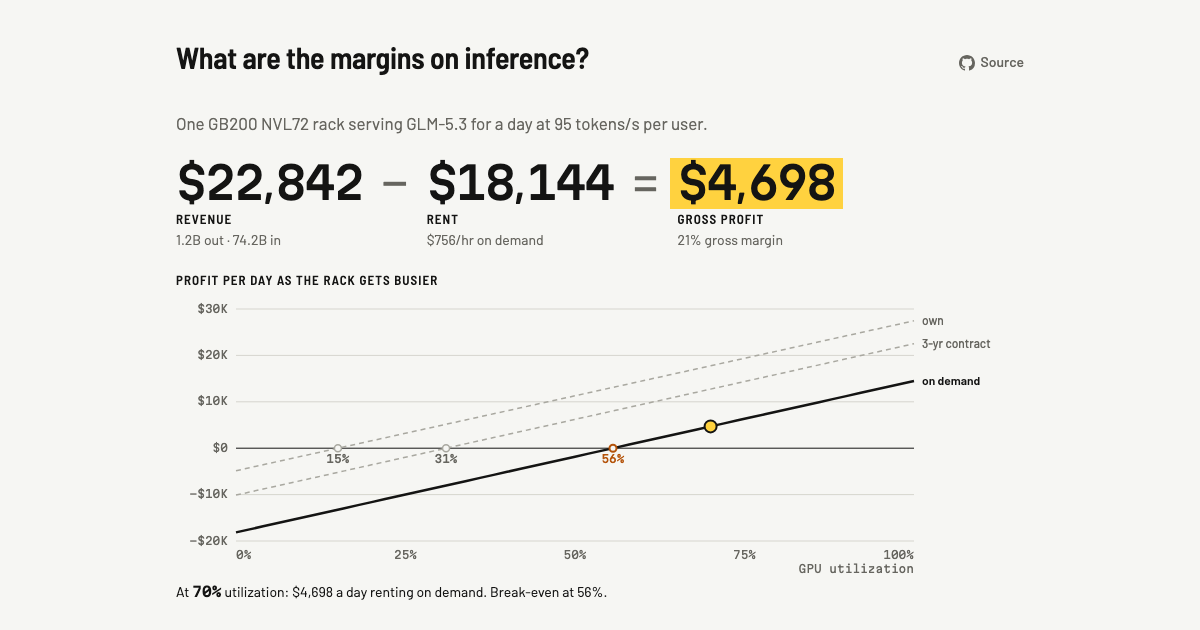
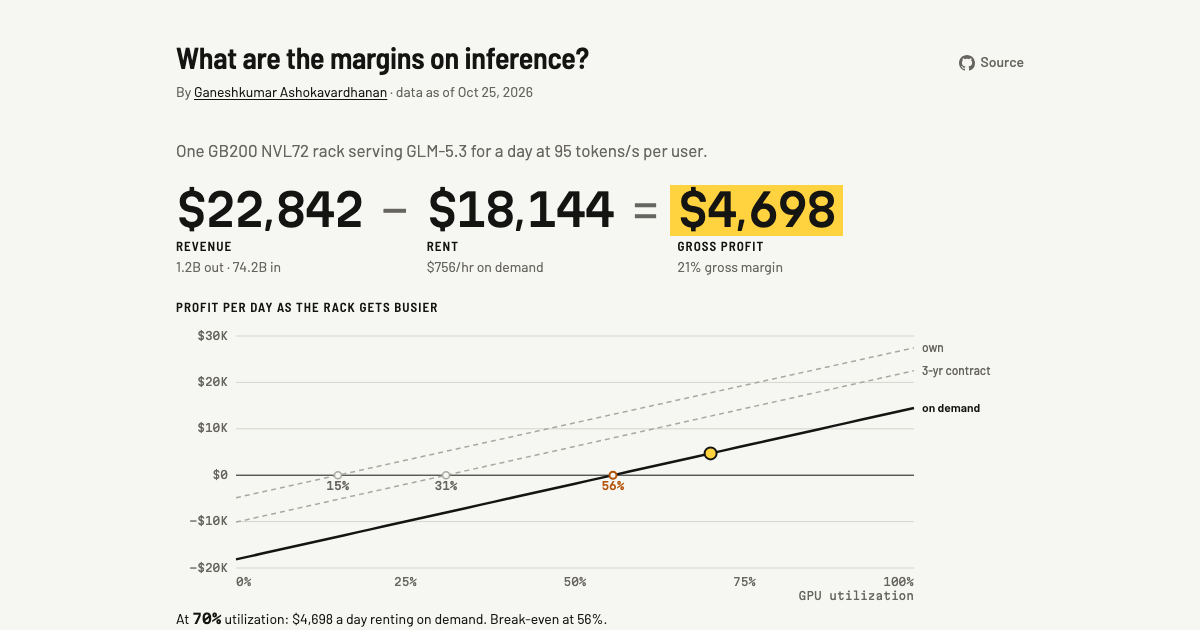
Review fixes: byline, crawlable metadata, exact receipt lines, small bugs
- A byline under the title names the author and links to
  ganeshkumarashok.com; an author meta tag, a canonical URL, robots.txt
  and a sitemap are added.
- Receipt revenue lines show token counts to five significant digits, so
  each line multiplies out to the dollars shown, with a note that totals
  use unrounded values.
- The chart's text description leads with the selected option instead of
  always starting with on-demand rent.
- The receipt's unit header, source dates and the footer link no longer
  wrap mid-token; a focused slider no longer draws a box around its track
  (the thumb still shows keyboard focus).

diff --git a/apps/web/e2e/site.spec.ts b/apps/web/e2e/site.spec.ts
@@ -18,7 +18,12 @@ test('1. defaults answer the four questions: rent, tokens, revenue, profit', asy
   await expect(page.getByTestId('margin')).toHaveText('21% gross margin');
   await expect(page.getByTestId('equation')).toContainText('1.2B out · 74.2B in');
   await expect(page.getByTestId('chart-readout')).toHaveText('At 70% utilization: $4,698 a day renting on demand. Break-even at 56%.');
-  await expect(page.getByTestId('profit-chart').getByRole('img')).toHaveAttribute('aria-label', /renting on demand breaks even at 56%; renting on a 3-yr contract breaks even at 31%; owning breaks even at 15%/);
+  await expect(page.getByTestId('profit-chart').getByRole('img')).toHaveAttribute('aria-label', /^Profit per day against GPU utilization\. renting on demand, the selected option, breaks even at 56% and makes \$4,698 a day at 70% utilization\. For comparison, renting on a 3-yr contract breaks even at 31%; owning breaks even at 15%\.$/);
+  await expect(page.locator('.byline')).toContainText('Ganeshkumar Ashokavardhanan');
+  await expect(page.locator('.byline a')).toHaveAttribute('href', 'https://ganeshkumarashok.com');
+  // Each revenue line multiplies out from what it shows.
+  await expect(page.getByTestId('receipt')).toContainText('1.1778B × $4.40/M');
+  await expect(page.getByTestId('receipt')).toContainText('$5,182');
   await expect(page.getByTestId('disclaimer')).toContainText('Not financial, investment, tax, or purchasing advice');
   await expect(page.getByTestId('disclaimer').getByRole('link')).toHaveAttribute('href', 'https://github.com/ganeshkumarashok/token-margin');
   await expect(page.getByTestId('repo-link')).toHaveAttribute('href', 'https://github.com/ganeshkumarashok/token-margin');
@@ -63,6 +68,7 @@ test('5. owning swaps rent for the cost of owning and a rack-price slider', asyn
   await expect(page.getByTestId('equation')).toContainText('$210/hr all-in, owned');
   await expect(page.getByTestId('s-rent')).toHaveCount(0);
   await expect(page.getByTestId('chart-readout')).toContainText('a day owning');
+  await expect(page.getByTestId('profit-chart').getByRole('img')).toHaveAttribute('aria-label', /owning, the selected option, breaks even at 15%/);
   await expect(page.getByTestId('s-power')).toContainText('14.5¢/kWh · $355/day');
   await expect(page.getByTestId('s-ops')).toContainText('$400/day');
   await page.goto('/?t=own&e=0.25');
@@ -164,4 +170,11 @@ test('14. a shared link with settings renders its own numbers over the pre-rende
   await expect(page.getByTestId('profit')).toHaveText('$7,839');
   await expect(page.locator('#root .answer')).toHaveCount(1);
   expect(errors).toEqual([]);
+});
+
+test('15. robots.txt and the sitemap point at the canonical address', async ({ page, request }) => {
+  expect(await (await request.get('/robots.txt')).text()).toContain('Sitemap: https://tokens.ganeshkumarashok.com/sitemap.xml');
+  expect(await (await request.get('/sitemap.xml')).text()).toContain('<loc>https://tokens.ganeshkumarashok.com/</loc>');
+  await page.goto('/');
+  await expect(page.locator('link[rel=canonical]')).toHaveAttribute('href', 'https://tokens.ganeshkumarashok.com/');
 });

diff --git a/apps/web/src/components/Details.tsx b/apps/web/src/components/Details.tsx
@@ -45,6 +45,8 @@ export function Details({ m }: { m: Model }) {
   const rack = A.racks[s.rack];
   const owning = s.tenure === 'own';
   const price = (v: number) => `${fmtUsdPerM(v)}/M`;
+  // Enough digits that each line multiplies out to the dollar figure shown.
+  const exact = (v: number) => (v >= 1e9 ? `${(v / 1e9).toPrecision(5)}B` : `${(v / 1e6).toPrecision(5)}M`);
   const uncachedRev = (d.uncachedInputTokens * i.priceInUsdPerM) / 1e6;
   const cachedRev = d.inputRevenueUsd - uncachedRev;
   const glmShare = (d.outputTokens + d.inputTokens) / A.anchors.openrouterGlm53TokensPerDay.value;
@@ -81,9 +83,9 @@ export function Details({ m }: { m: Model }) {
           { label: 'Cached input', note: fmtPct(i.cacheHit), value: fmtTokens(d.cachedInputTokens), fn: 'openrouter-glm53-activity' },
         ]} after={<>{fmtPct(glmShare)} of all GLM-5.3 traffic on OpenRouter</>} />
         <Block title="Revenue" unit="per day" rows={[
-          { label: 'Output', note: `${fmtTokens(d.outputTokens)} × ${price(i.priceOutUsdPerM)}`, value: fmtUsdInt(d.outputRevenueUsd), fn: A.pricePresets[s.pricePreset].source },
-          { label: 'Fresh input', note: `${fmtTokens(d.uncachedInputTokens)} × ${price(i.priceInUsdPerM)}`, value: fmtUsdInt(uncachedRev) },
-          { label: 'Cached input', note: `${fmtTokens(d.cachedInputTokens)} × ${price(i.priceCacheUsdPerM)}`, value: fmtUsdInt(cachedRev) },
+          { label: 'Output', note: `${exact(d.outputTokens)} × ${price(i.priceOutUsdPerM)}`, value: fmtUsdInt(d.outputRevenueUsd), fn: A.pricePresets[s.pricePreset].source },
+          { label: 'Fresh input', note: `${exact(d.uncachedInputTokens)} × ${price(i.priceInUsdPerM)}`, value: fmtUsdInt(uncachedRev) },
+          { label: 'Cached input', note: `${exact(d.cachedInputTokens)} × ${price(i.priceCacheUsdPerM)}`, value: fmtUsdInt(cachedRev) },
           { label: 'Total', value: fmtUsdInt(d.revenueUsd), total: true },
         ]} />
         <Block title={owning ? 'Cost of owning' : 'Cost'} unit="per day" rows={cost} />
@@ -95,7 +97,7 @@ export function Details({ m }: { m: Model }) {
           </tr>
         </tbody>
       </table>
-      <p className="excluded">Not included: sales, customer support, payment fees and taxes. The overhead slider adds the first three.</p>
+      <p className="excluded">Not included: sales, customer support, payment fees and taxes. The overhead slider adds the first three. Figures are rounded for display; totals are computed from unrounded values.</p>
 
       <h2>How it works</h2>
       <ul className="method">

diff --git a/apps/web/src/styles.css b/apps/web/src/styles.css
@@ -48,6 +48,8 @@ a { color: inherit; text-underline-offset: 2px; }
 .repo { display: inline-flex; align-items: center; gap: 6px; flex-shrink: 0; font: 500 14px var(--sans); color: var(--muted); text-decoration: none; }
 .repo:hover, .repo:focus-visible { color: var(--ink); text-decoration: underline; }
 .repo svg { position: relative; top: 2px; }
+.byline { margin: 6px 0 0; font-size: 14px; color: var(--muted); }
+.byline a { color: var(--ink); }
 .masthead h1 { margin: 0; font: 600 30px/1.15 var(--cond); letter-spacing: -0.01em; text-wrap: balance; }
 
 /* The answer */
@@ -109,7 +111,9 @@ a { color: inherit; text-underline-offset: 2px; }
   background: var(--hl); border: 2px solid var(--ink);
 }
 .track input::-moz-range-thumb { width: 14px; height: 14px; border-radius: 50%; background: var(--hl); border: 2px solid var(--ink); }
+.track input:focus { outline: none; }
 .track input:focus-visible::-webkit-slider-thumb { outline: 2px solid var(--zero); outline-offset: 2px; }
+.track input:focus-visible::-moz-range-thumb { outline: 2px solid var(--zero); outline-offset: 2px; }
 .track .zero, .track .mark {
   position: absolute; pointer-events: none;
   left: calc(var(--thumb) / 2 + (100% - var(--thumb)) * var(--f));
@@ -131,7 +135,7 @@ a { color: inherit; text-underline-offset: 2px; }
 .receipt { width: 100%; border-collapse: collapse; font-size: 15px; }
 .receipt th { text-align: left; font: 600 12px/1.3 var(--cond); text-transform: uppercase; letter-spacing: 0.08em; padding: 18px 0 6px; border-bottom: 1px solid var(--rule); }
 .receipt tbody:first-child th { padding-top: 4px; }
-.receipt th.unit { text-align: right; font: 400 11px var(--mono); text-transform: none; letter-spacing: 0; color: var(--muted); }
+.receipt th.unit { white-space: nowrap; text-align: right; font: 400 11px var(--mono); text-transform: none; letter-spacing: 0; color: var(--muted); }
 .receipt td { padding: 5px 0; vertical-align: baseline; }
 .receipt td.l { white-space: nowrap; padding-right: 14px; }
 .receipt td.n { color: var(--muted); font-size: 13px; width: 100%; }
@@ -145,6 +149,7 @@ a { color: inherit; text-underline-offset: 2px; }
 .method { margin: 0; padding-left: 18px; display: grid; gap: 6px; }
 .sources { margin: 0; padding-left: 22px; display: grid; gap: 4px; font-size: 14px; }
 .sources li { overflow-wrap: anywhere; }
+.sources .muted, .footer a { white-space: nowrap; }
 .footer { margin-top: 16px; font-size: 13px; color: var(--muted); }
 .footer p { margin: 0 0 6px; }
 

diff --git a/apps/web/src/components/ProfitChart.tsx b/apps/web/src/components/ProfitChart.tsx
@@ -64,6 +64,10 @@ export function ProfitChart({ m }: { m: Model }) {
   const uNow = s.utilization;
   const pNow = m.result.daily.operatingProfitUsd;
 
+  const be = (l: (typeof lines)[number]) => (l.zero === null ? 'never breaks even' : `breaks even at ${fmtPct(l.zero)}`);
+  const others = lines.filter((l) => l.b !== active).map((l) => `${DOING[l.b]} ${be(l)}`).join('; ');
+  const summary = `${DOING[active]}, the selected option, ${be(cur)} and makes ${fmtUsdInt(pNow)} a day at ${fmtPct(uNow)} utilization. For comparison, ${others}`;
+
   // End labels on the right, nudged apart so they never overlap.
   const ends = lines.map((l) => ({ b: l.b, y: y(l.pts[STEPS]) })).sort((a, c) => a.y - c.y);
   for (let k = 1; k < ends.length; k++) ends[k].y = Math.max(ends[k].y, ends[k - 1].y + 15);
@@ -74,7 +78,6 @@ export function ProfitChart({ m }: { m: Model }) {
     setHover(Math.min(1, Math.max(0, Math.round(u * STEPS) / STEPS)));
   };
 
-  const summary = lines.map((l) => `${DOING[l.b]} breaks even at ${l.zero === null ? 'no utilization' : fmtPct(l.zero)}`).join('; ');
 
   return (
     <figure className="pchart" data-testid="profit-chart">

diff --git a/apps/web/src/App.tsx b/apps/web/src/App.tsx
@@ -1,14 +1,20 @@
 import { Answer } from './components/Answer';
 import { Controls } from './components/Controls';
 import { Details, REPO } from './components/Details';
+import { A } from './data';
 import { useModel } from './state/useModel';
+
+const asOf = new Date(`${A.version}T00:00:00Z`).toLocaleDateString('en-US', { month: 'short', day: 'numeric', year: 'numeric', timeZone: 'UTC' });
 
 export function App() {
   const m = useModel();
   return (
     <main className="page">
       <header className="masthead">
-        <h1>What are the margins on inference?</h1>
+        <div>
+          <h1>What are the margins on inference?</h1>
+          <p className="byline">By <a href="https://ganeshkumarashok.com">Ganeshkumar Ashokavardhanan</a> · data as of {asOf}</p>
+        </div>
         <a className="repo" href={REPO} data-testid="repo-link" aria-label="Source code on GitHub">
           {/* GitHub mark (Octicons, MIT) */}
           <svg viewBox="0 0 16 16" width="16" height="16" aria-hidden="true">

diff --git a/apps/web/index.html b/apps/web/index.html
@@ -5,6 +5,8 @@
     <meta name="viewport" content="width=device-width, initial-scale=1.0" />
     <title>What are the margins on inference?</title>
     <meta name="description" content="One NVIDIA NVL72 rack, one day, serving GLM-5.3: what it costs, how many tokens it serves, what they sell for, and the profit. Measured throughput, real traffic, real prices. Personal project; not financial advice." />
+    <meta name="author" content="Ganeshkumar Ashokavardhanan" />
+    <link rel="canonical" href="https://tokens.ganeshkumarashok.com/" />
     <meta property="og:type" content="website" />
     <meta property="og:title" content="What are the margins on inference?" />
     <meta property="og:description" content="One GB200 rack, one day, GLM-5.3: $22,842 of tokens − $18,144 on-demand rent = $4,698. On a 3-year contract: $12,734." />
